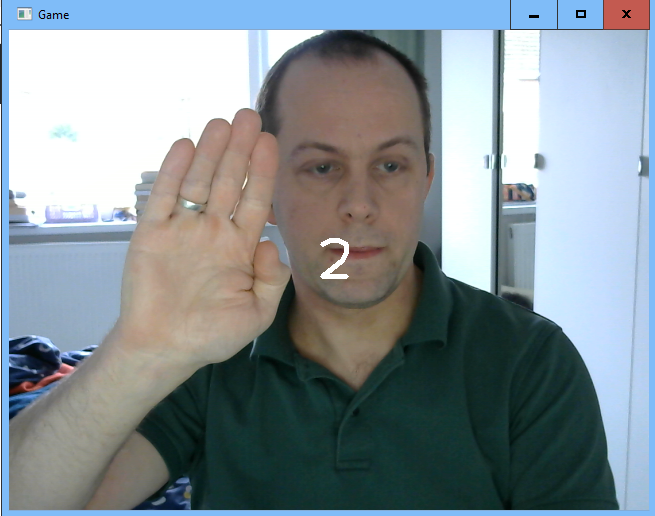
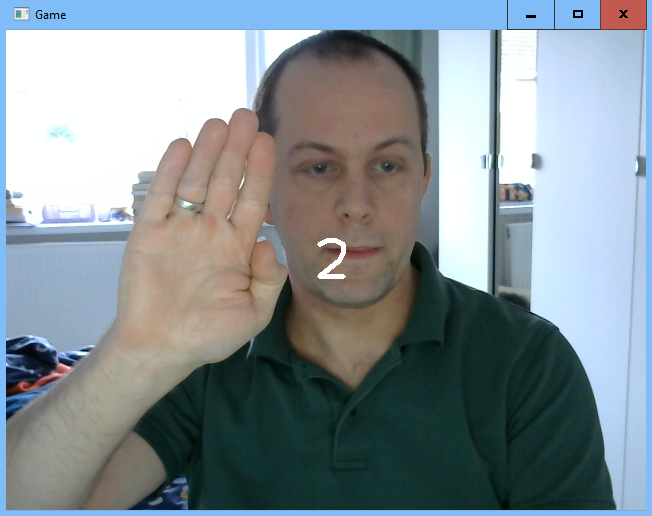
testing lauren's code

diff --git a/rps-lauren.py b/rps-lauren.py
@@ -1,0 +1,86 @@
+import cv2
+from keras.models import load_model
+import numpy as np
+import random
+import time
+
+def get_computer_choice():
+    game_options = ["rock", "paper", "scissors"]
+    computer_choice = random.choice(game_options)
+    return computer_choice
+
+def get_prediction():
+    print("m: loading model")
+    model = load_model('keras_model.h5')
+    cap = cv2.VideoCapture(0)
+    data = np.ndarray(shape=(1, 224, 224, 3), dtype=np.float32)
+    choices_list = ['rock', 'paper', 'scissors', 'nothing']
+    computer_wins = 0
+    user_wins = 0
+    round_count = 0
+    while computer_wins < 3 and user_wins < 3:
+        print("m: round start")
+        round_count += 1
+        count = 3
+        start_time = time.time()
+        while True:
+            print("m: wait start")
+            time_left = time.time() - start_time
+            if time_left <= count:
+                print(f"{count}...")
+                count -= 1
+                time.sleep(1)
+            else:
+                break
+            while True:
+                print("m: observation start")
+                ret, frame = cap.read()
+                resized_frame = cv2.resize(frame, (224, 224), interpolation = cv2.INTER_AREA)
+                image_np = np.array(resized_frame)
+                normalized_image = (image_np.astype(np.float32) / 127.0) - 1 # Normalize the image
+                data[0] = normalized_image
+                prediction = model.predict(data)
+                user_choice = choices_list[prediction.argmax()]
+                computer_choice = get_computer_choice()
+                winner = get_winner(user_choice, computer_choice)
+                print(f"You chose {user_choice}. Computer chose {computer_choice}.")
+                if winner == "Computer":
+                    computer_wins += 1
+                    print("Computer wins this round!")
+                elif winner == "User":
+                    user_wins += 1
+                    print("You win this round!")
+                elif winner == "Tie":
+                    print("This round is a tie.")
+                else:
+                    print("Invalid input")
+                print(f"User score: {user_wins}. Computer score: {computer_wins}.")
+                cv2.imshow('frame', frame)
+                    # Press q to close the window
+                if cv2.waitKey(1) & 0xFF == ord('q'):
+                    break
+                if computer_wins == 3 or user_wins == 3:
+                    break
+
+            if computer_wins == 3:
+                print("Computer wins!")
+                break
+            elif user_wins == 3:
+                print("User wins!")
+                break
+
+        cap.release()
+        cv2.destroyAllWindows()
+        return
+
+def get_winner(user_choice, computer_choice):
+    if (computer_choice == 'rock' and user_choice == 'scissors') or (computer_choice == "scissors" and user_choice == 'paper') or (computer_choice == 'paper' and user_choice == 'rock'): 
+        return "Computer"
+    elif (user_choice == 'rock' and computer_choice == 'scissors') or (user_choice == "scissors" and computer_choice == 'paper') or (user_choice == 'paper' and computer_choice == 'rock'): 
+        return "User"
+    elif user_choice == computer_choice: 
+        return "Tie"
+    else:
+        return "invalid input"
+
+get_prediction()

diff --git a/camera_rps.py b/camera_rps.py
@@ -54,7 +54,7 @@ def play():
         cv2.putText(frame,str(countDown),(round(frame.shape[1] / 2) - 15, round(frame.shape[0] / 2)+10),
                     cv2.FONT_HERSHEY_PLAIN, 4, (255, 255, 255),3)
         
-        cv2.imshow("Game",frame)
+        cv2.imshow("Rock, Paper, Scissors",frame)
 
         # Press 'q' to exit
         if cv2.waitKey(10) == ord('q'):
